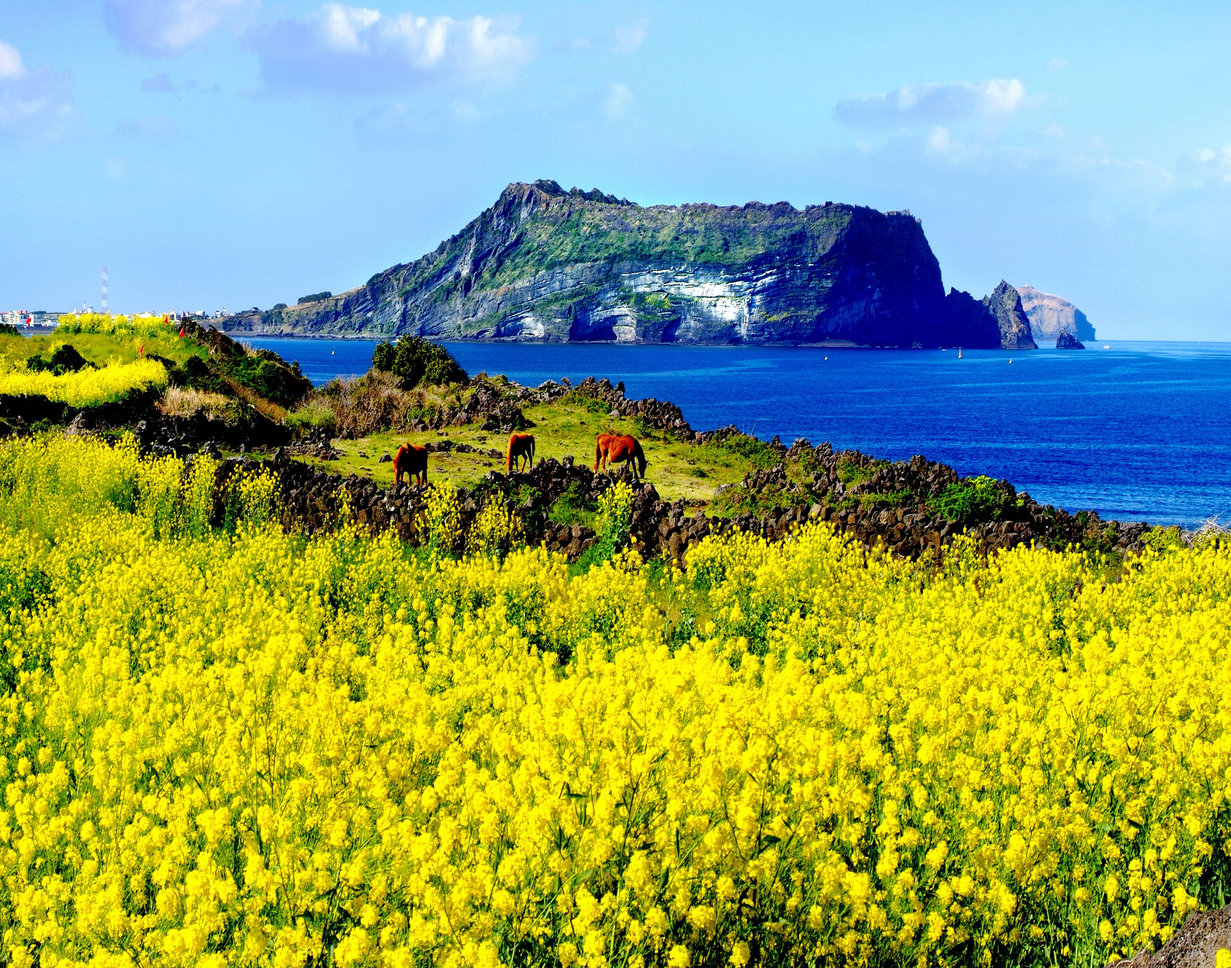
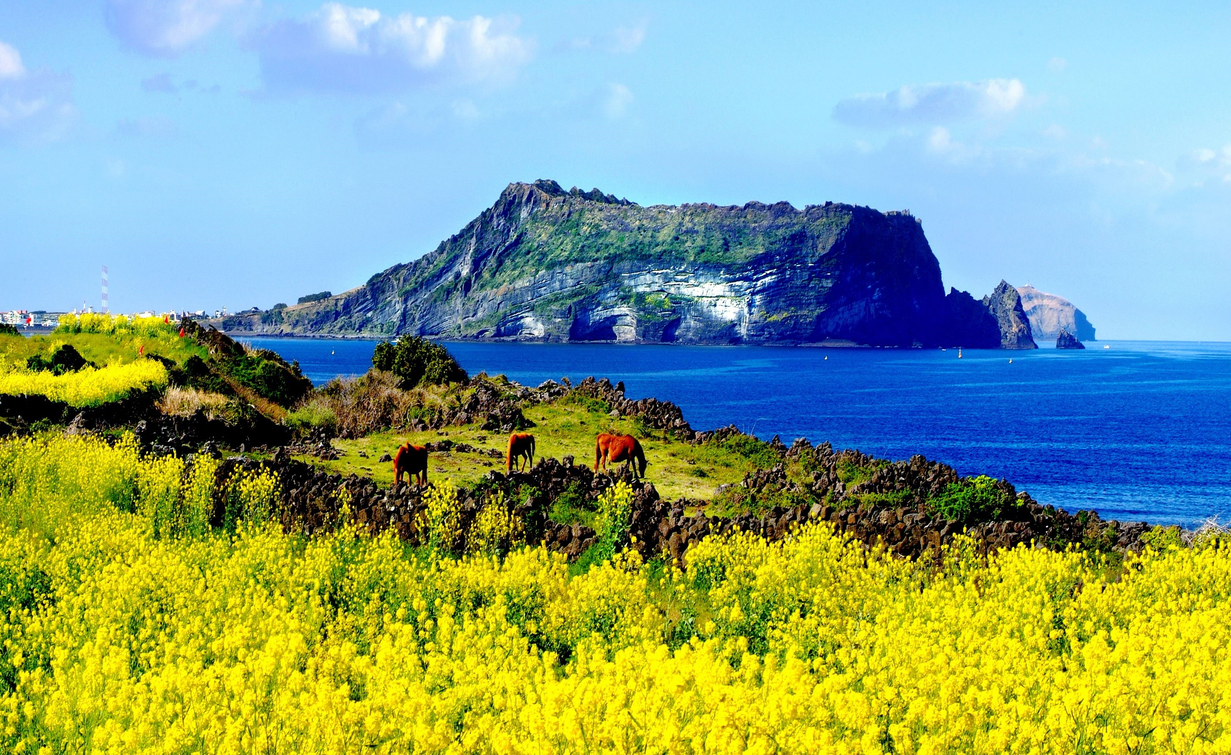
수정

diff --git a/3rd_project/src/main/webapp/resources/css/travel/travel_detail.css b/3rd_project/src/main/webapp/resources/css/travel/travel_detail.css
@@ -115,14 +115,18 @@ button#more_btn:hover img:nth-child(2){
 div.travel_detail_top{
 	display:inline-block;
 	position:relative;
-	overflow:hidden; 
 	width:100%;
 	height:900px;
+	overflow:hidden; 
+	object-fit:cover;
 }
 div.travel_detail_top>img{
 	display:inline-block;
 	z-index:1;
 	width:100%;
+	height:900px;
+	overflow:hidden; 
+	object-fit:cover;
 	filter:brightness(30%);
 }
 div.travel_detail_top>div{

diff --git a/3rd_project/src/main/java/com/myspring/myjeju/FoodController.java b/3rd_project/src/main/java/com/myspring/myjeju/FoodController.java
@@ -59,7 +59,7 @@ public class FoodController {
 		
 		FoodDAO dao = new FoodDAO();
 		FoodVO vo = dao.getFoodDetail(fid);
-		String infor2 = vo.getF_infor2().replace("\r\n", "<br>");
+		String infor2 = vo.getF_infor2().replace("-", "<br>");
 		
 		mv.setViewName("food/food_detail");
 		mv.addObject("vo",vo);
@@ -77,7 +77,7 @@ public class FoodController {
 		
 		CafeDAO dao = new CafeDAO();
 		CafeVO vo = dao.getCafeDetail(caid);
-		String infor2 = vo.getCa_infor2().replace("\r\n", "<br>");
+		String infor2 = vo.getCa_infor2().replace("-", "<br>");
 		
 		mv.setViewName("food/cafe_detail");
 		mv.addObject("vo",vo);
